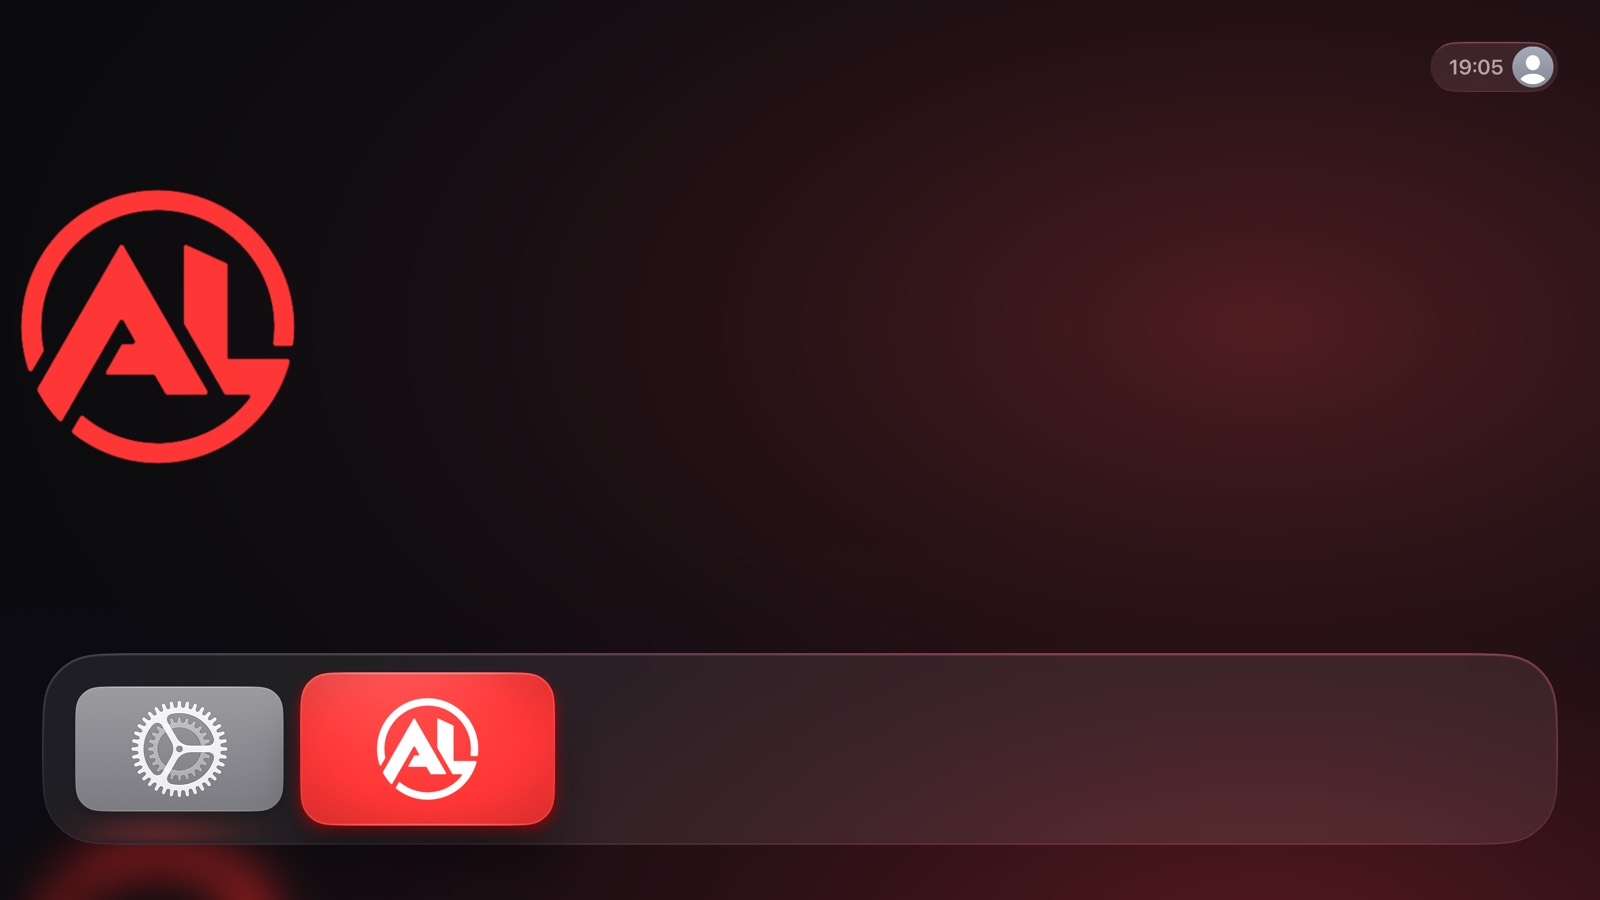
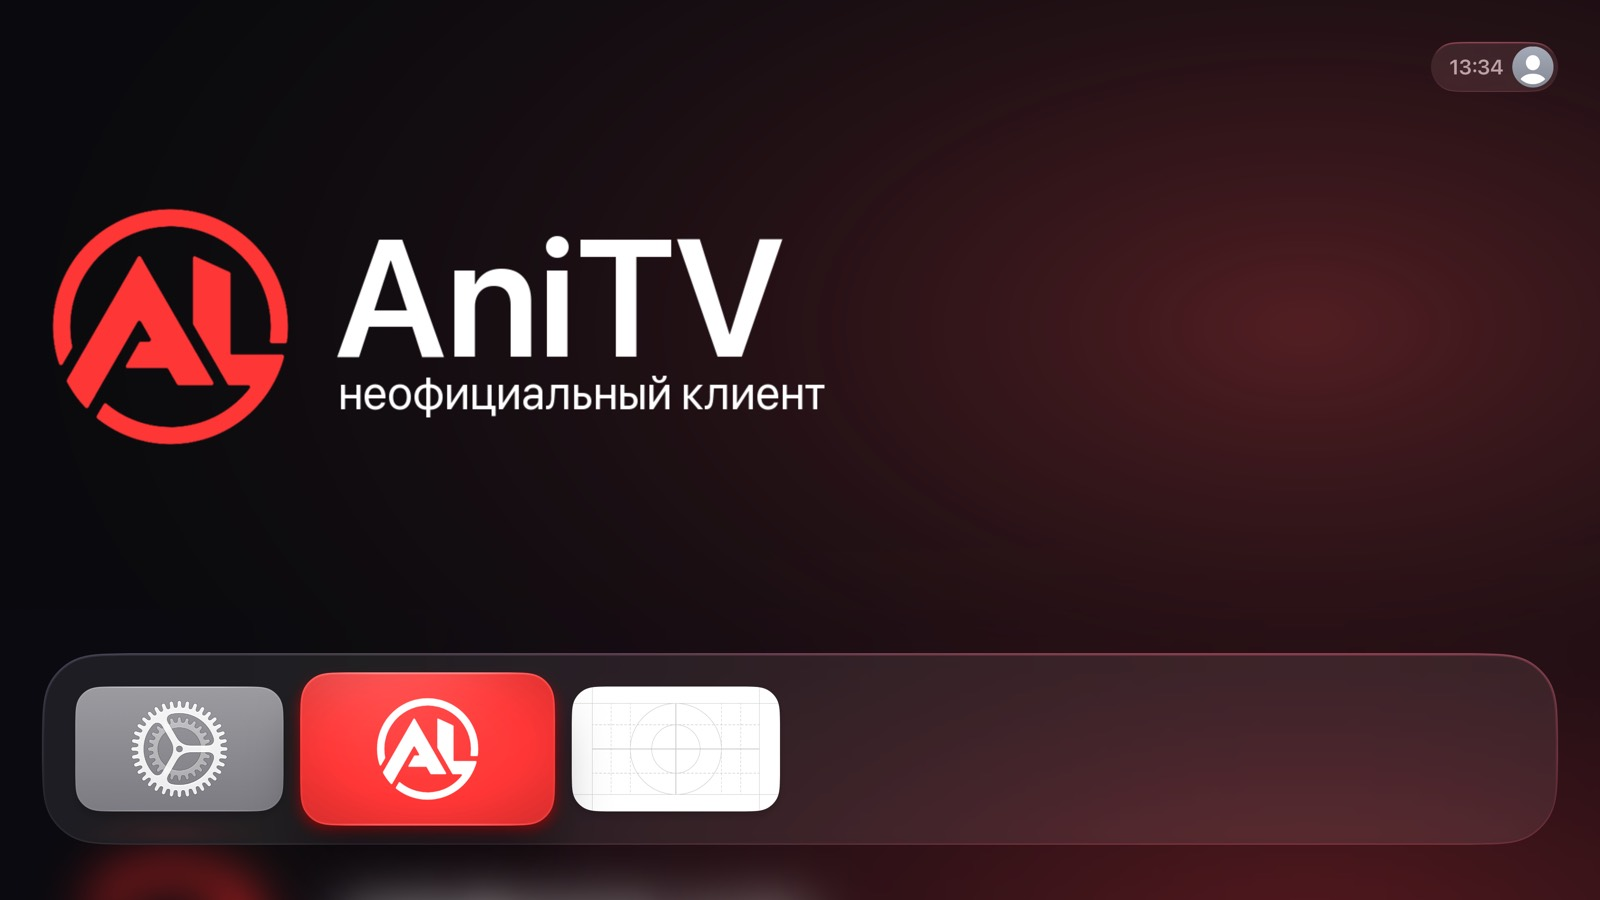
feat: put the product name on the Top Shelf artwork
The static Top Shelf image now carries the wordmark and the unofficial-client
note next to the mark, composed inside a safe box: the home screen aspect-fills
the artwork and cuts the sides, which clipped the mark in the first version.

Captured on the simulator by leaving the app with Menu and taking a screen-wide
screenshot from a UI test (a focused app tile is the only state in which tvOS
draws the Top Shelf at all). The screenshot in docs/screenshots/home.jpg is
re-taken from that run.

diff --git a/docs/DECISIONS.md b/docs/DECISIONS.md
@@ -325,7 +325,12 @@ the instruction to replace the mark before publishing.
 - A plain `AppIcon.appiconset` is not an option for this SDK: actool reports the image as an
   "unassigned child" and emits nothing.
 
-**Consequences.** The app has a real icon and a static Top Shelf image. Note for future sessions: the
+**Consequences.** The app has a real icon and a static Top Shelf image.
+One more property of the format, learned the same way: the system **aspect-fills** the Top Shelf
+artwork and cuts the sides, so the first version — mark at 8.5 % of the width — came out clipped on
+the home screen. The artwork is now composed inside a safe box (left margin 14.5 %) with the wordmark
+and the "неофициальный клиент" note next to the mark.
+ Note for future sessions: the
 Top Shelf is only drawn while the app tile holds focus on the home screen; with focus elsewhere the
 system shows its own wallpaper, so an unfocused screenshot proves nothing about the asset. The licensing and trademark questions are open by design and are tracked in
 `docs/THIRD_PARTY_ASSETS.md` — resolving them means commissioning an original mark, which is a

diff --git a/docs/THIRD_PARTY_ASSETS.md b/docs/THIRD_PARTY_ASSETS.md
@@ -10,7 +10,7 @@ runtime (posters, covers, episode previews). This file records the few assets th
 | Source | <https://github.com/anilibria/anilibria-app> (`develop`) |
 | Files used | `app-tv/src/main/res/mipmap-xxxhdpi/ic_launcher.png` (512 px artwork taken from `app-mobile/src/main/ic_launcher-playstore.png`), same monogram |
 | Upstream licence | **GPL-3.0** (`LICENSE` in that repository) |
-| What we did | Cropped the white "AL" monogram out of the red plate, then composed tvOS layers (400×240 and 800×480, `Back`/`Front`) and the Top Shelf image in `App/Resources/Assets.xcassets/App Icon & Top Shelf Image.brandassets/` |
+| What we did | Cropped the white "AL" monogram out of the red plate, then composed tvOS layers (400×240 and 800×480, `Back`/`Front`) and the Top Shelf artwork (wordmark "AniTV" + "неофициальный клиент") in `App/Resources/Assets.xcassets/App Icon & Top Shelf Image.brandassets/` |
 | Trademark | The monogram is AniLibria's brand identity |
 
 **This is accepted knowingly, and it is the one place where the project does not follow

diff --git a/CHANGELOG.md b/CHANGELOG.md
@@ -49,7 +49,7 @@ not been released yet, so everything below is still subject to change.
   an accent colour.
 - App icon and static Top Shelf image as a tvOS `App Icon & Top Shelf Image` brand assets collection:
   a two-layer icon (`Back` plate + `Front` mark, 400×240 and @2x) and Top Shelf artwork at 1920×720
-  and 2320×720. The mark is taken from the official Android TV app, which is recorded with its
+  and 2320×720 carrying the product name and the "неофициальный клиент" note. The mark is taken from the official Android TV app, which is recorded with its
   GPL-3.0 provenance and trademark caveat in `docs/THIRD_PARTY_ASSETS.md` (ADR 0017).
 - XCUITest suite (`App/UITests/LatestFeedUITests.swift`, target `AniTVUITests`) that drives the focus
   engine through `XCUIRemote`: it opens a release from the feed, checks the detail screen describes the
